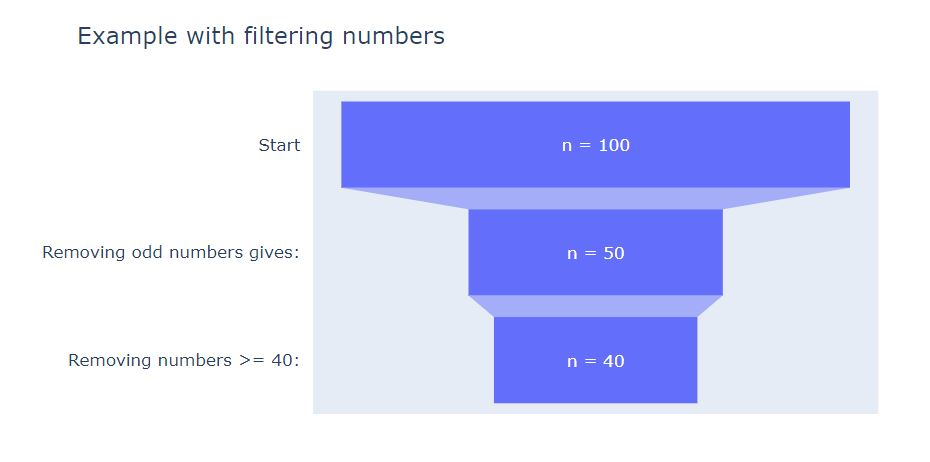
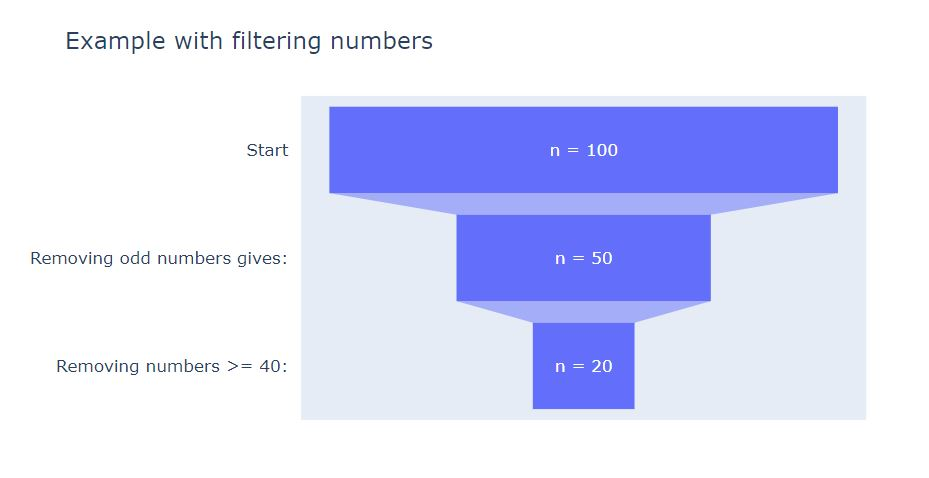
Fixed mistakes in docs.

diff --git a/tests/test_filterflow.py b/tests/test_filterflow.py
@@ -2,4 +2,4 @@ from filterflow import __version__
 
 
 def test_version():
-    assert __version__ == '0.1.1'
+    assert __version__ == '0.1.2'

diff --git a/filterflow/__init__.py b/filterflow/__init__.py
@@ -1,2 +1,2 @@
-__version__ = '0.1.1'
+__version__ = '0.1.2'
 from .flow import Flow

diff --git a/README.md b/README.md
@@ -7,9 +7,9 @@ as a series of data processing steps are applied to it.
 ## Example usage
 
 ```
-from filterflow import Flow, FlowElement
+from filterflow import Flow
 
-# Create list from 0 to 100
+# Create list from 0 to 99
 elements = range(100)
 
 # Declare flow
@@ -20,7 +20,7 @@ evens_only = [x for x in elements if x%2 == 0]
 f.add_step("Removing odd numbers gives:", len(evens_only))
 
 # Filter out numbers greater than 40
-evens_less_than_40 = [x for x in elements if x < 40]
+evens_less_than_40 = [x for x in evens_only if x < 40]
 f.add_step("Removing numbers >= 40:", len(evens_less_than_40))
 
 # Plot chart
